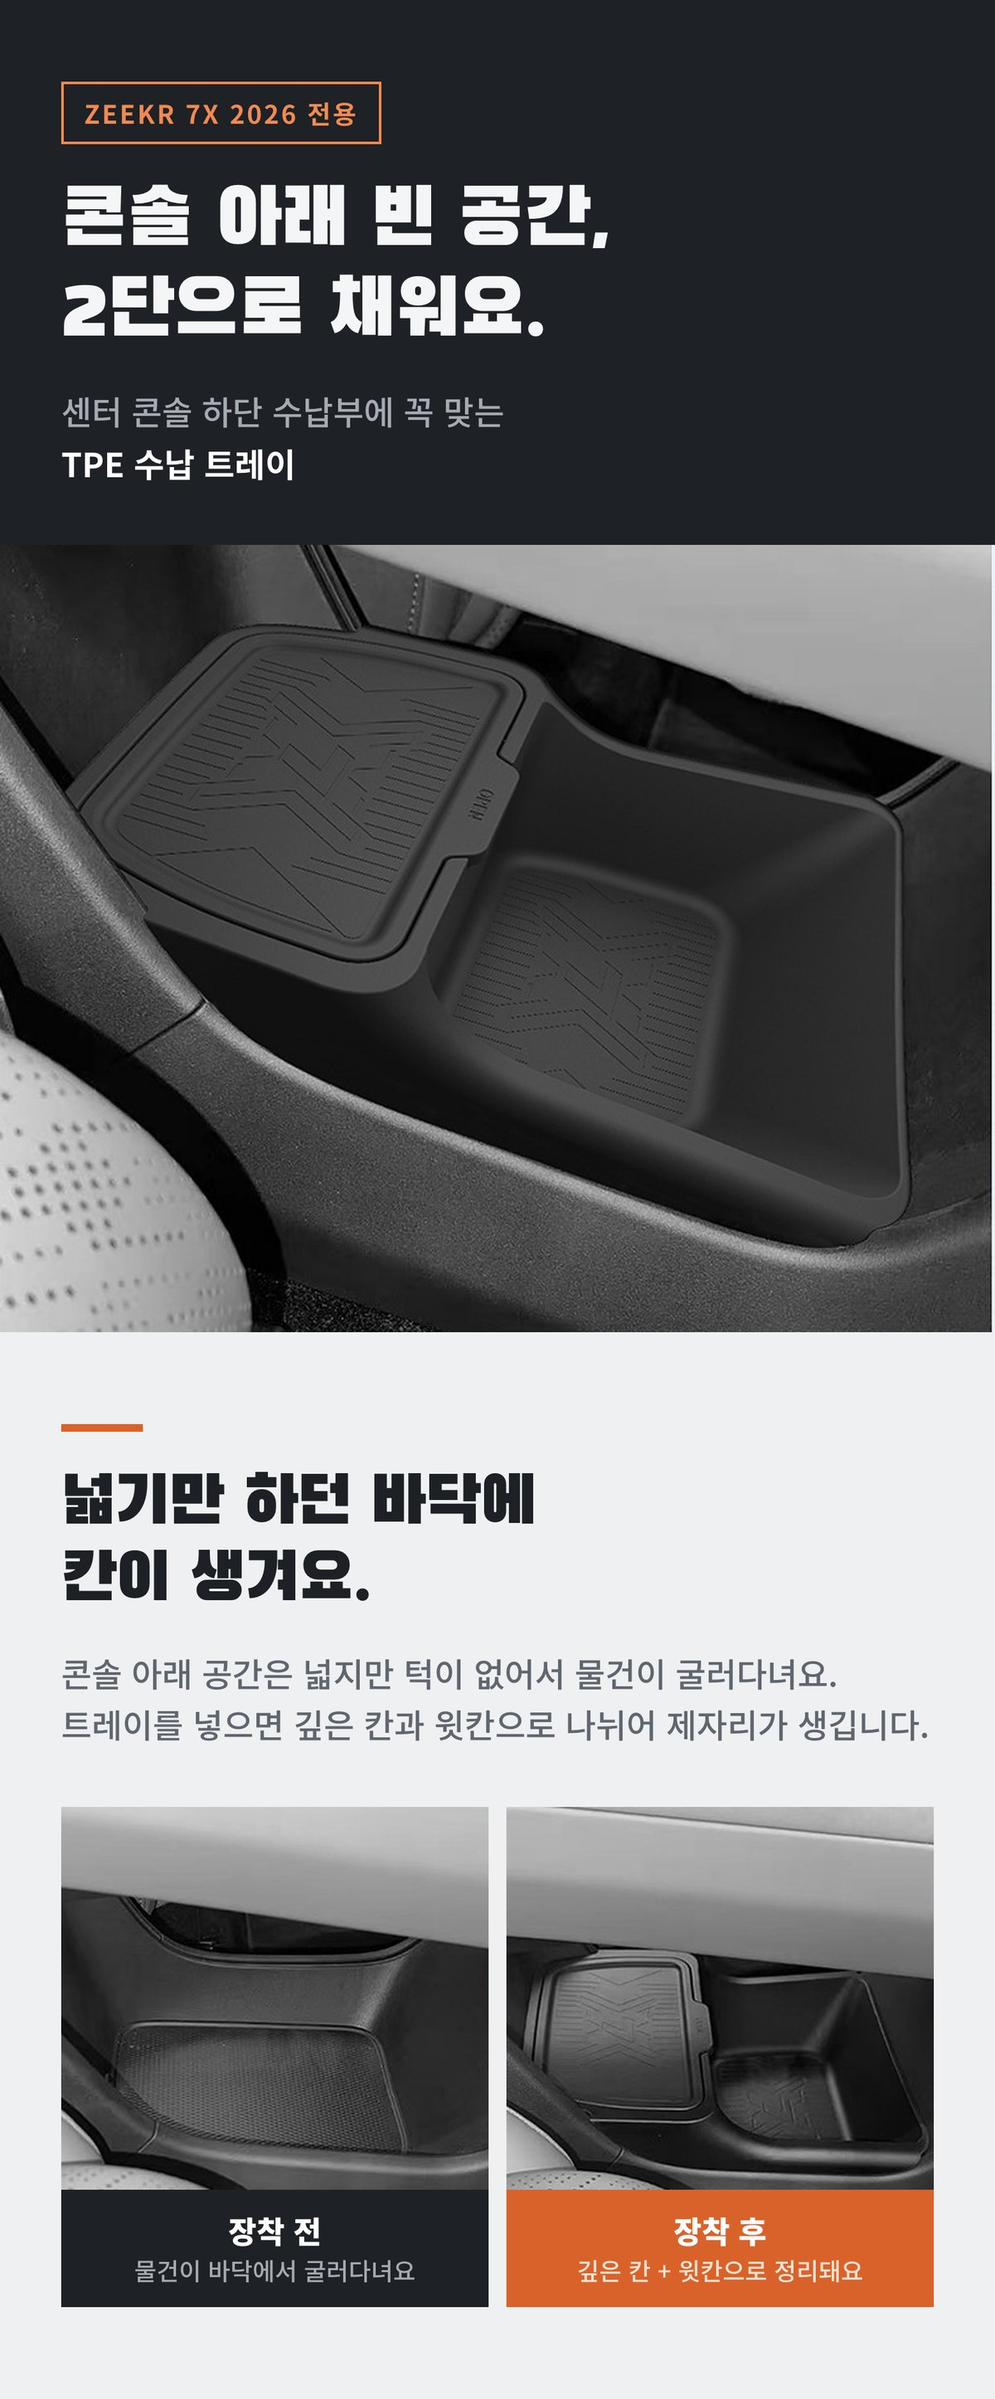
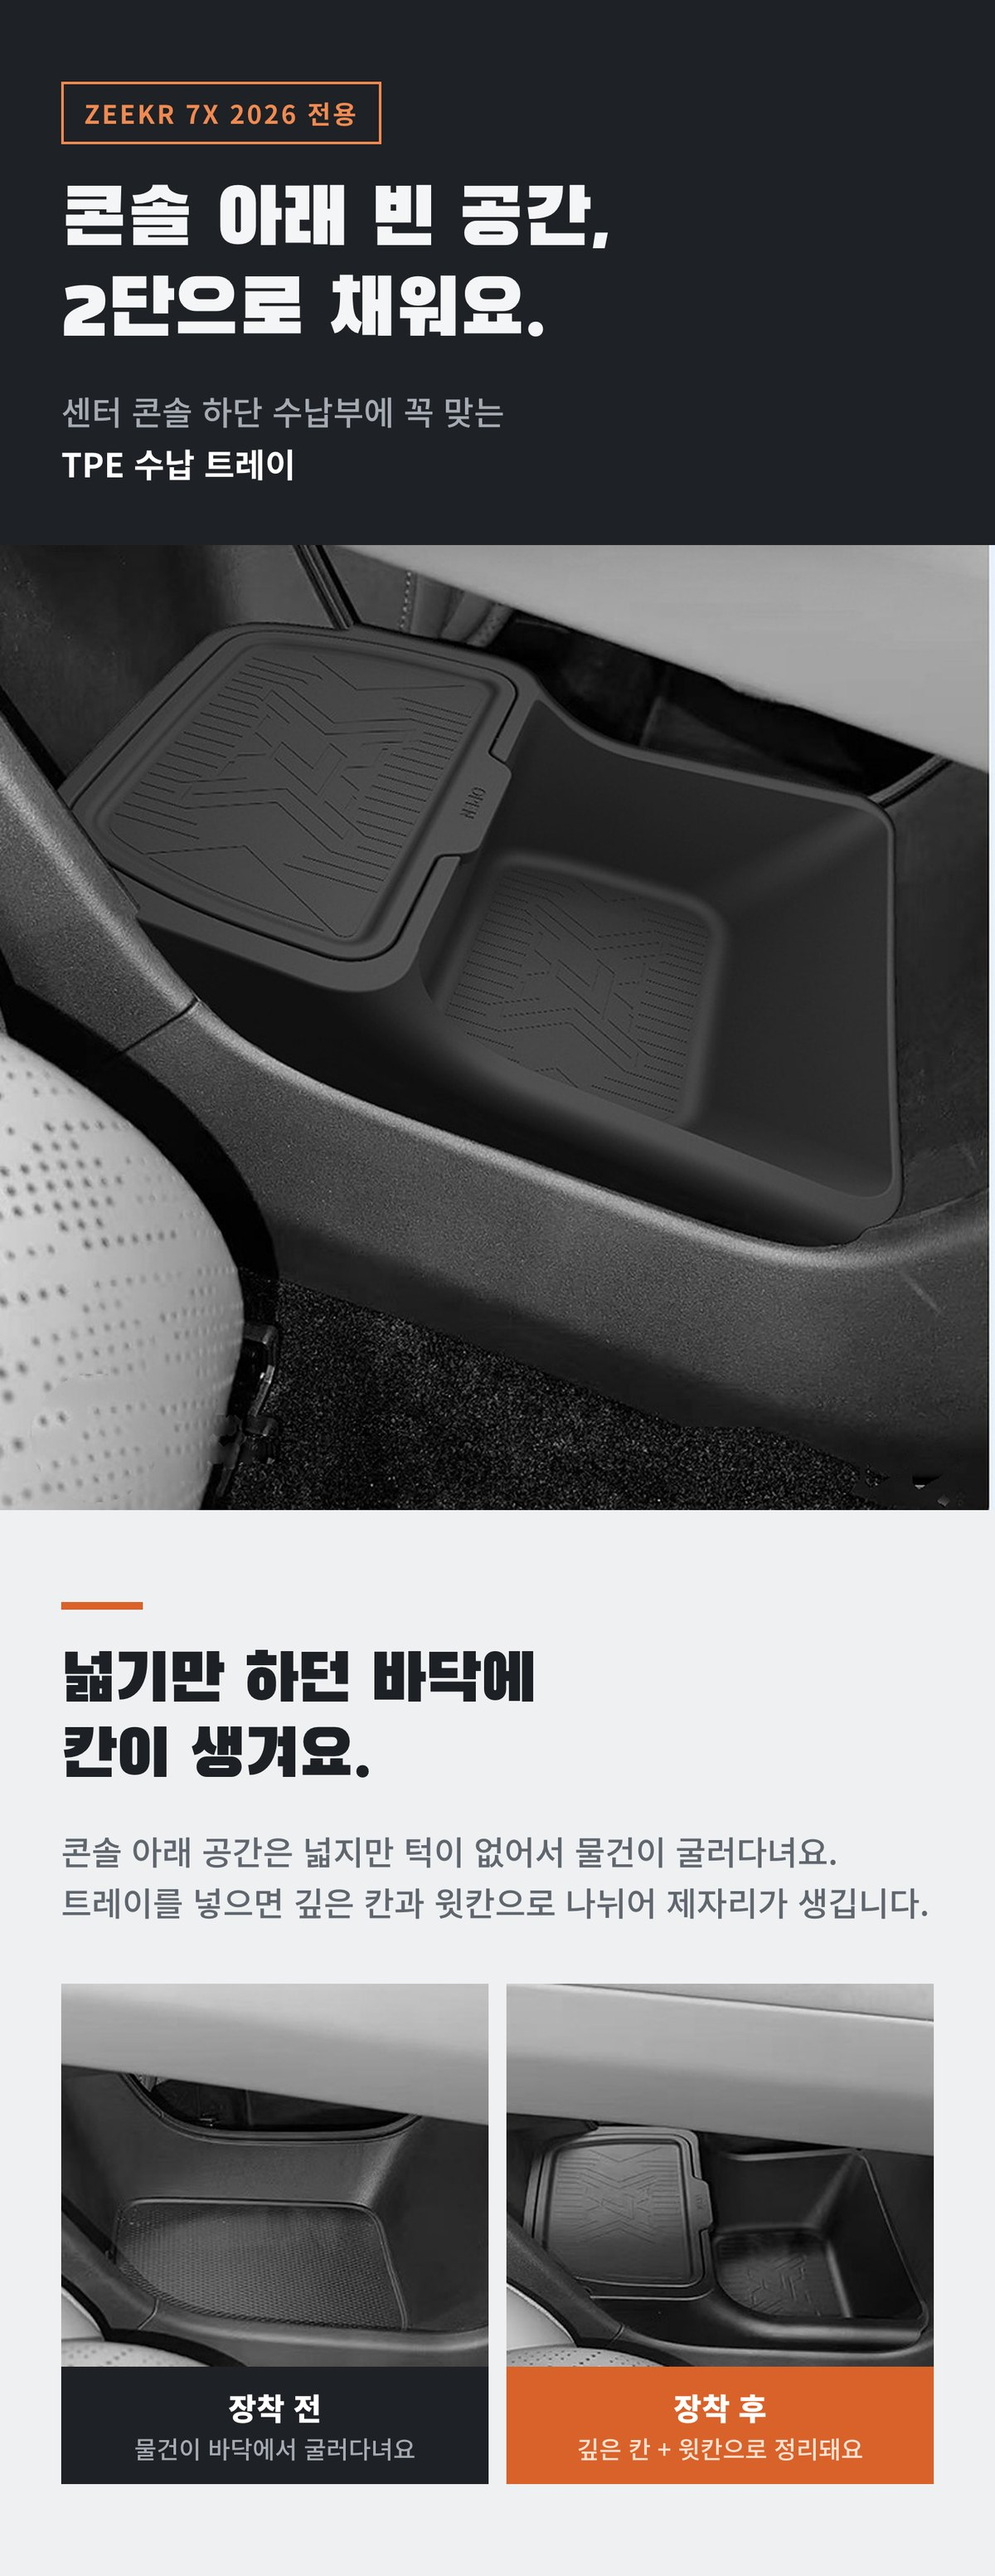
12번 상세 첫 사진: 바닥 끝까지 살리고 흰 아이콘·문구·Quality 마크 제거

diff --git a/shop/config.js b/shop/config.js
@@ -8,4 +8,4 @@ window.SHEET_URL = 'https://docs.google.com/spreadsheets/d/19crq_-szVqdJRlVK12RK
 window.KAKAO_CHANNEL_URL = 'https://pf.kakao.com/_vtvxiX/chat';
 
 // 상품 사진 버전 (사진을 교체하면 숫자를 올려 주세요)
-window.ASSET_V = '10122350';
+window.ASSET_V = '10122400';
